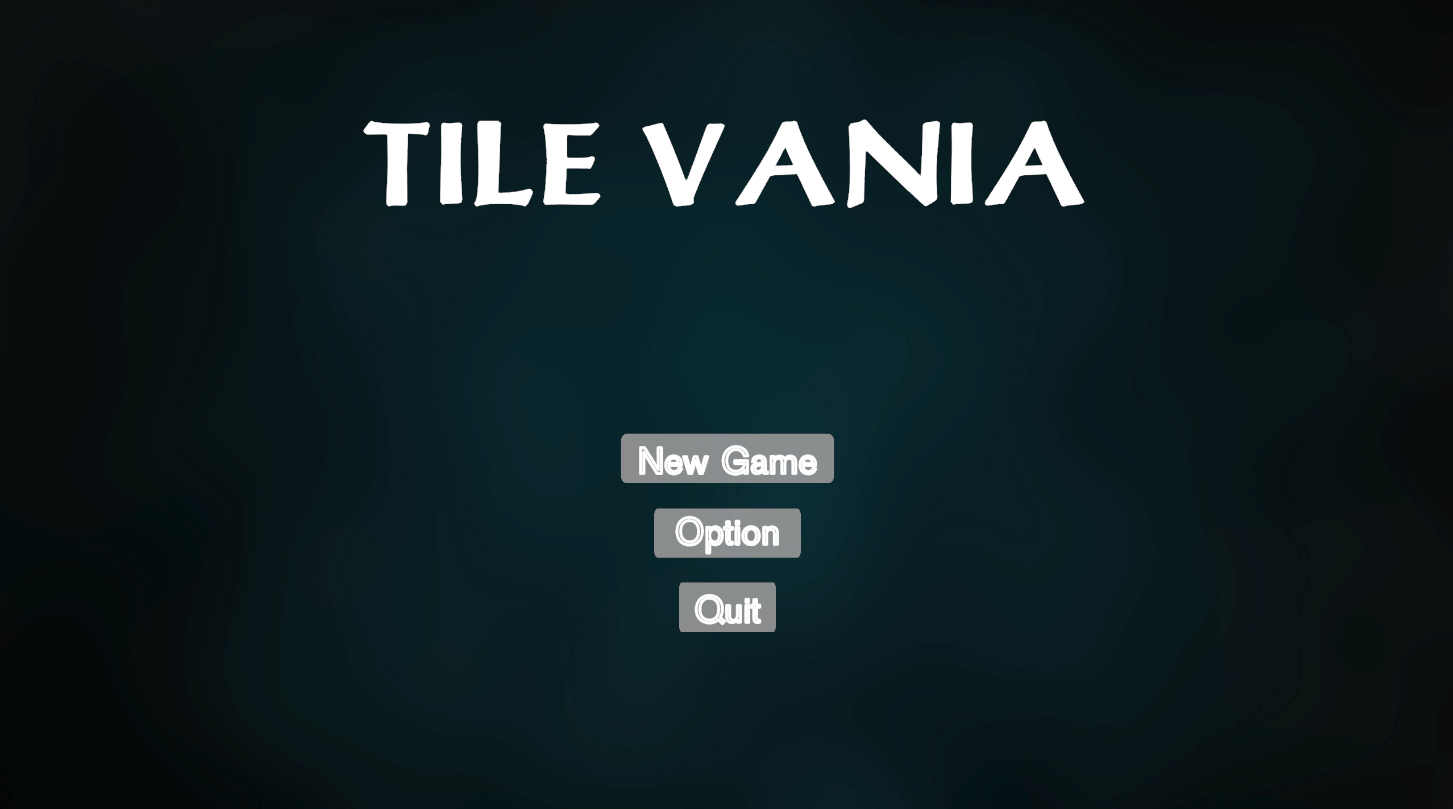
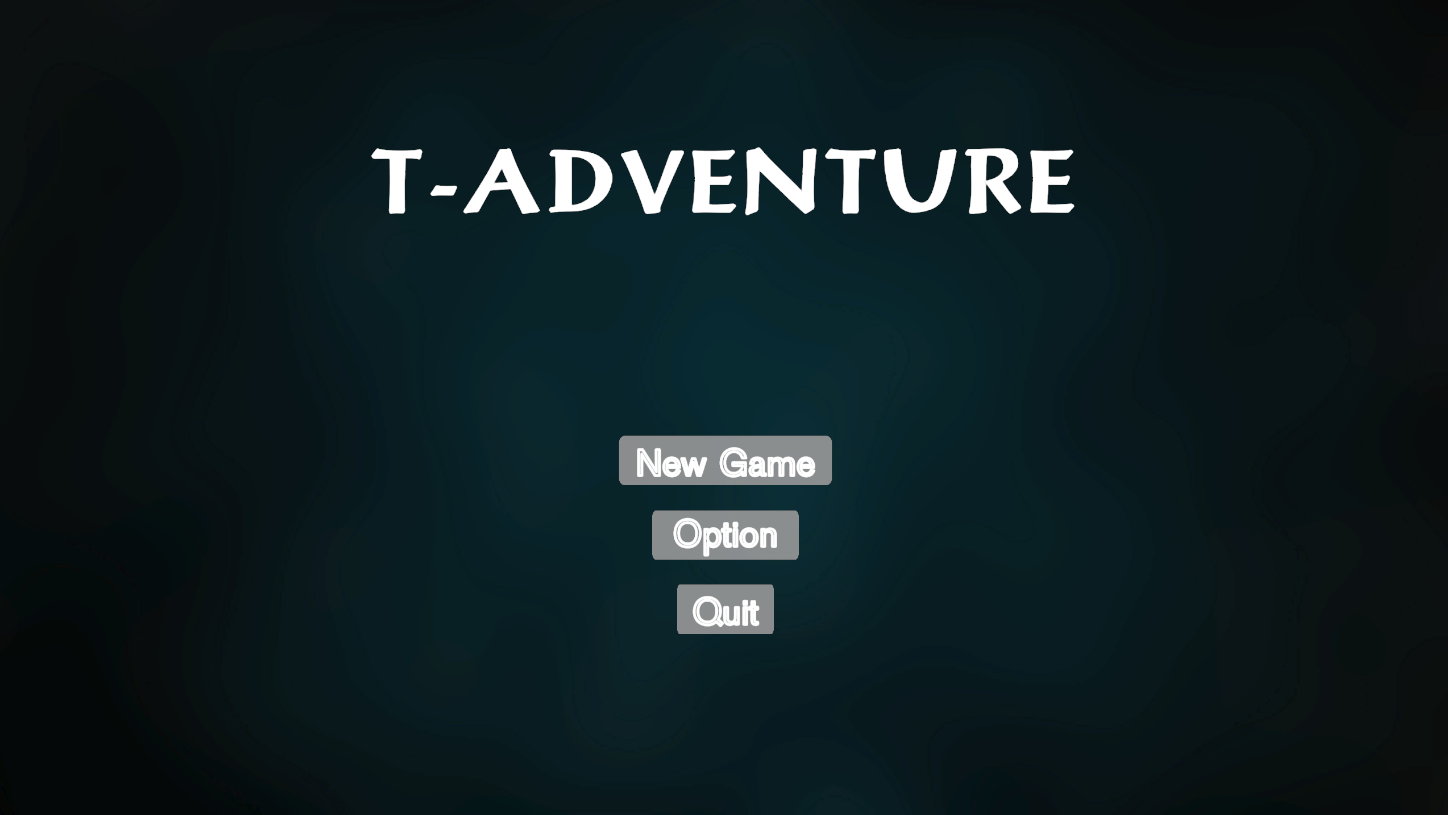
Update README.md

Changed region(s): [[0.2486, 0.1236, 0.7459, 0.2781], [0.4662, 0.618, 0.5594, 0.8035], [0.4351, 0.5253, 0.5594, 0.5871]]

diff --git a/README.md b/README.md
@@ -1,5 +1,5 @@
 ---
-Title: TileVania2D
+Title: T-Adventure
 Description: |
   TileVania2D is a challenging 2D platformer game built using Unity, where players aim to collect coins and reach the end of each level with a limited health bar. The game features intricate levels with various obstacles, such as enemies, traps, and hazards like lava. The goal is to navigate through these dangers, collect enough coins, and reach the target while avoiding death.
 
@@ -38,7 +38,7 @@ And there’s still more to discover – take a look around in-game!
 
 ## Gameplay:
 
-In **TileVania2D**, you will journey through several challenging levels. Each level presents a series of obstacles designed to test your precision, timing, and reflexes. As you progress, you'll face increasingly difficult enemies and tricky traps, including hidden dangers such as invisible spikes and lava pits.
+In **T-Adventure**, you will journey through several challenging levels. Each level presents a series of obstacles designed to test your precision, timing, and reflexes. As you progress, you'll face increasingly difficult enemies and tricky traps, including hidden dangers such as invisible spikes and lava pits.
 
 The game’s mechanics revolve around managing your health bar, which depletes when you take damage from enemies or traps. Be sure to avoid unnecessary risks, as one hit could be the difference between success and failure.
 
@@ -56,7 +56,7 @@ Your main goal is to collect all the coins scattered throughout each level. Once
 
 ## Development:
 
-**TileVania2D** was developed by **Nguyen Van Tri**. The game design, level mapping, coding, and overall gameplay were all created by me. However, the sprite art and sound effects were sourced from online assets to match the game’s retro aesthetic. 
+**T-Adventure** was developed by **Nguyen Van Tri**. The game design, level mapping, coding, and overall gameplay were all created by me. However, the sprite art and sound effects were sourced from online assets to match the game’s retro aesthetic. 
 
 The **UI** is fully designed and created by me, featuring an intuitive and simple layout that allows players to adjust audio levels easily. The UI includes options for adjusting background music and SFX volume during gameplay.
 
@@ -80,6 +80,6 @@ This game is a **personal project** for learning and practice, and is **not for 
 
 ---
 
-Thank you for playing **TileVania2D**! I hope you enjoy the game and the challenge it brings. Feel free to provide feedback or suggestions for future updates!
+Thank you for playing **T-Adventure**! I hope you enjoy the game and the challenge it brings. Feel free to provide feedback or suggestions for future updates!
 
 ---
